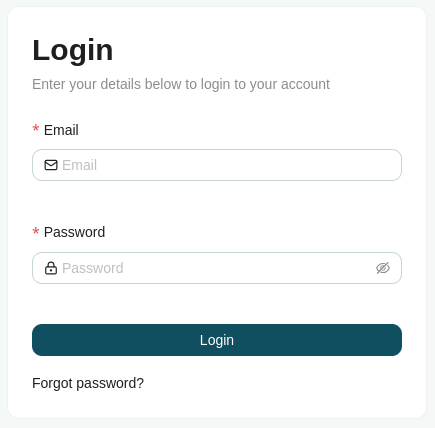
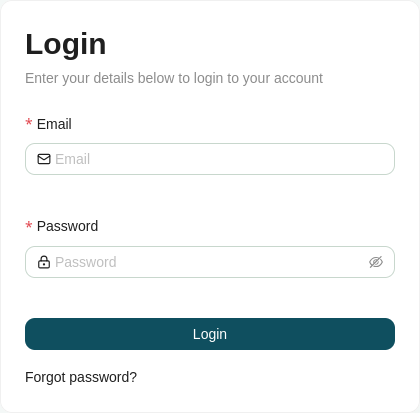
Create forgot password page

diff --git a/docs/access/forgot-password.md b/docs/access/forgot-password.md
@@ -1,0 +1,22 @@
+# Forgot Password
+
+If you have forgotten your password on the [Log In](log-in.md) form, click the **Forgot Password** link. You are taken to a new page with a form to enter your email.
+
+1. Enter your **Email** and submit the form.
+2. If the email is valid, a password reset link is sent to your email account.
+
+![Forgot Password Form](../assets/images/access/forgot-password-form.png)
+
+![Email Sent Confirmation](../assets/images/access/forgot-password-email-sent.png)
+
+![Reset Password Email](../assets/images/access/reset-password-email.png)
+
+Click the reset link in the email to open the password reset page, where you enter your new password in two fields: **New password** and **Confirm password**.
+
+!!! note "Password requirements"
+
+    Your password must contain at least one uppercase letter, one number, and one special character.
+
+On a successful password change, TBD.
+
+![Reset Password Form](../assets/images/access/reset-password-form.png)
